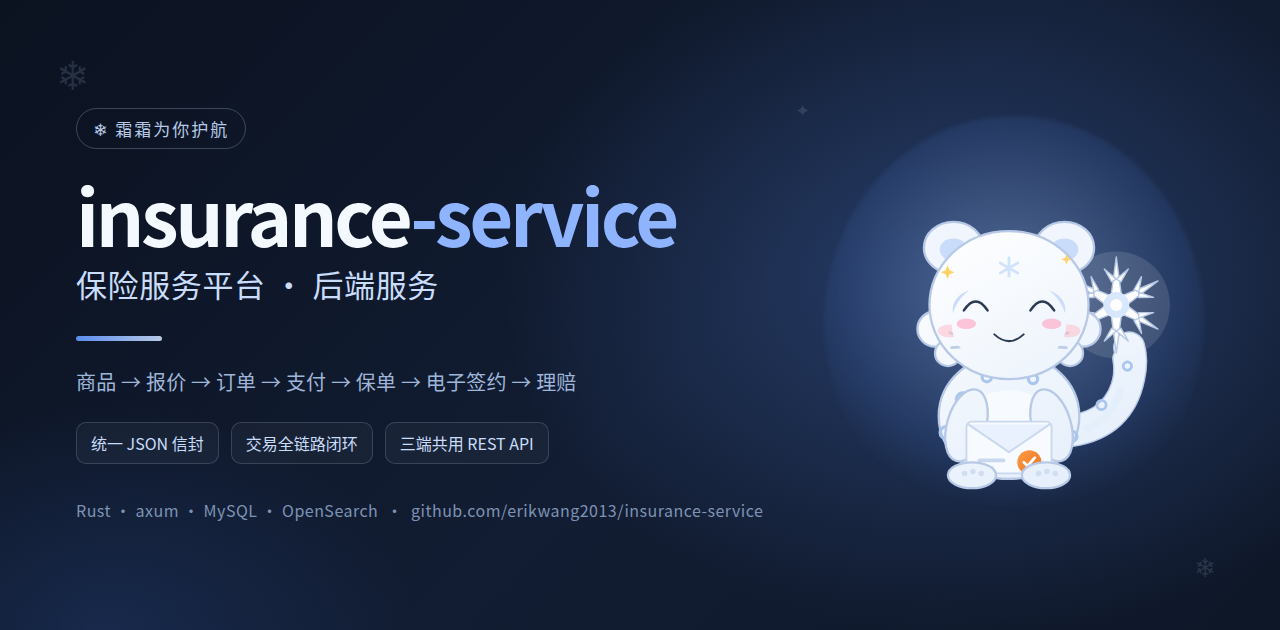
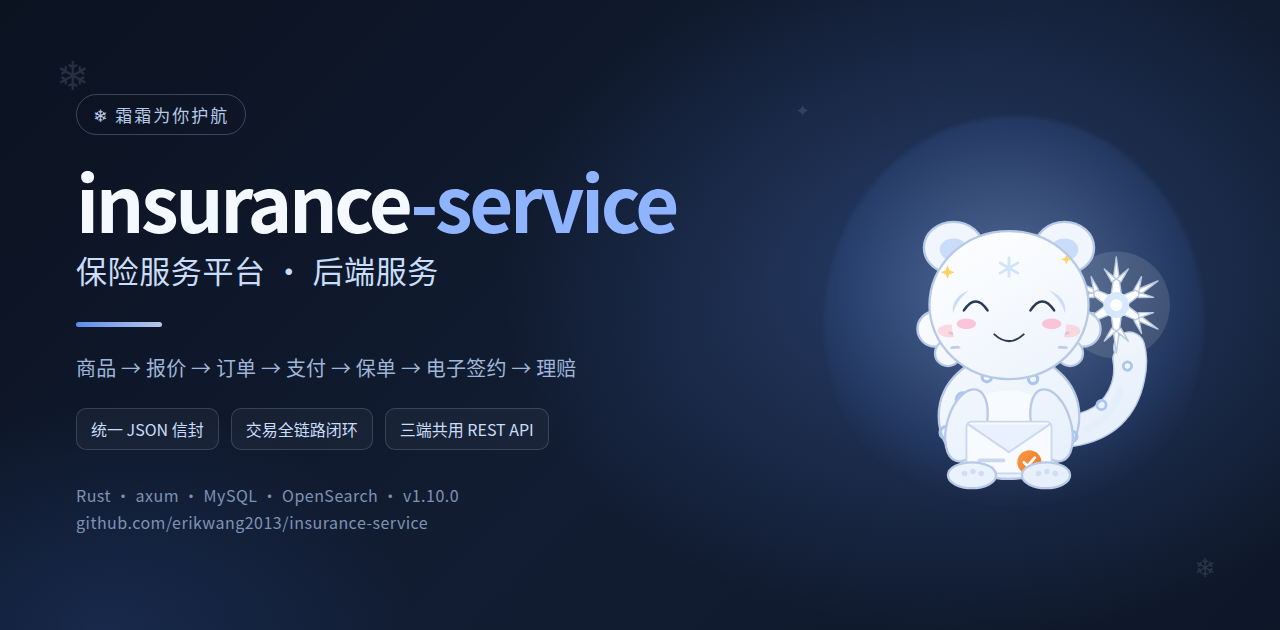
release: v1.10.0 宠物表情内嵌 + 文档/图示同步 + clippy 清理
- 12 种宠物表情 SVG 经 include_str! 内嵌，新增 GET /pet/{slug} 出口
- 吉祥物 MASCOT_SVG 改为 include_str! docs/mascot.svg，消除双份维护
- README / plan / tasks / design / backend-architecture 同步 v1.10.0
- features.svg 更新能力清单与测试规模；Social Preview 重制（v1.10.0）
- 修正“未配置 DB 自动 SKIP”的错误说明（实际会失败）
- clippy：冗余闭包 / clone / Ok(?) / 多余借用 / 空文档注释清理

diff --git a/src/routes.rs b/src/routes.rs
@@ -289,8 +289,8 @@ pub fn route_table() -> Vec<Route> {
     ]
 }
 
-/// 吉祥物（霜霜，雪豹幼崽）—— 内嵌 SVG，另存于 docs/mascot.svg，两处同源
-pub const MASCOT_SVG: &str = r##"<svg xmlns="http://www.w3.org/2000/svg" viewBox="0 0 400 400" width="120" height="120" role="img" aria-label="霜霜，insurance-service 吉祥物——雪豹幼崽，尾尖是一片雪花结晶，怀里抱着统一信封"> <title>霜霜 · insurance-service 吉祥物（雪豹幼崽）</title> <defs> <linearGradient id="fur" gradientUnits="userSpaceOnUse" x1="120" y1="96" x2="280" y2="384"> <stop offset="0" stop-color="#FFFFFF"/> <stop offset="1" stop-color="#E4EEFB"/> </linearGradient> <linearGradient id="seal" x1="0" y1="0" x2="1" y2="1"> <stop offset="0" stop-color="#FF9A44"/> <stop offset="1" stop-color="#E8721F"/> </linearGradient> <g id="sfArm" fill="#FFFFFF" stroke="#B7C9E6" stroke-width="1.5" stroke-linejoin="round"> <path d="M316 190 L309 186 L316 134 L323 186 Z"/> <path d="M316 158 L303 147 L311 161 Z"/> <path d="M316 158 L329 147 L321 161 Z"/> </g> </defs> <path d="M268 322 Q320 314 330 264 Q334 246 330 232" stroke="#B7C9E6" stroke-width="35" fill="none" stroke-linecap="round"/> <path d="M272 326 Q314 314 324 268 Q326 254 324 244" stroke="#B7C9E6" stroke-width="25" fill="none" stroke-linecap="round"/> <path d="M268 322 Q320 314 330 264 Q334 246 330 232" stroke="url(#fur)" stroke-width="32" fill="none" stroke-linecap="round"/> <path d="M272 326 Q314 314 324 268 Q326 254 324 244" stroke="url(#fur)" stroke-width="22" fill="none" stroke-linecap="round"/> <path d="M284 320 Q312 308 320 278" stroke="#E4EEFB" stroke-width="8" fill="none" stroke-linecap="round" opacity="0.85"/> <circle cx="316" cy="186" r="58" fill="#FFFFFF" opacity="0.12"/> <g> <use href="#sfArm"/> <use href="#sfArm" transform="rotate(60 316 186)"/> <use href="#sfArm" transform="rotate(120 316 186)"/> <g transform="rotate(180 316 186)"> <use href="#sfArm"/> <use href="#sfArm" transform="rotate(60 316 186)"/> <use href="#sfArm" transform="rotate(120 316 186)"/> </g> </g> <circle cx="316" cy="186" r="14" fill="#D8E8FC"/> <circle cx="316" cy="186" r="6.5" fill="#FFFFFF"/> <g fill="none" stroke="#A9C6EE" stroke-width="3"> <circle cx="300" cy="294" r="5"/> <circle cx="328" cy="252" r="4.5"/> </g> <ellipse cx="200" cy="306" rx="76" ry="68" fill="url(#fur)" stroke="#B7C9E6" stroke-width="2.5"/> <ellipse cx="200" cy="322" rx="52" ry="44" fill="#FFFFFF" opacity="0.55"/> <g fill="none" stroke="#A9C6EE" stroke-width="3.4"> <circle cx="150" cy="288" r="7"/> <circle cx="250" cy="294" r="6"/> <circle cx="132" cy="324" r="6.5"/> <circle cx="268" cy="328" r="5.5"/> <circle cx="176" cy="264" r="5"/> <circle cx="226" cy="266" r="5"/> </g> <ellipse cx="154" cy="316" rx="21" ry="40" fill="url(#fur)" stroke="#B7C9E6" stroke-width="2.5" transform="rotate(16 154 316)"/> <ellipse cx="246" cy="316" rx="21" ry="40" fill="url(#fur)" stroke="#B7C9E6" stroke-width="2.5" transform="rotate(-16 246 316)"/> <g> <rect x="154" y="312" width="92" height="56" rx="6" fill="#F7FAFF" stroke="#C9D8EE" stroke-width="2"/> <path d="M156 315 L200 345 L244 315" fill="#E9F1FE" stroke="#C9D8EE" stroke-width="2" stroke-linejoin="round"/> <rect x="166" y="352" width="30" height="4" rx="2" fill="#C9D8EE"/> <rect x="166" y="360" width="18" height="4" rx="2" fill="#DDE7F7"/> <circle cx="222" cy="356" r="13" fill="url(#seal)"/> <path d="M216 356 L220 360 L228 351" stroke="#FFFFFF" stroke-width="3" fill="none" stroke-linecap="round" stroke-linejoin="round"/> </g> <ellipse cx="160" cy="370" rx="26" ry="14" fill="url(#fur)" stroke="#B7C9E6" stroke-width="2.5"/> <ellipse cx="240" cy="370" rx="26" ry="14" fill="url(#fur)" stroke="#B7C9E6" stroke-width="2.5"/> <g fill="#C9D8EE" opacity="0.75"> <circle cx="152" cy="368" r="3"/> <circle cx="161" cy="366" r="3"/> <circle cx="170" cy="368" r="3"/> <circle cx="232" cy="368" r="3"/> <circle cx="241" cy="366" r="3"/> <circle cx="250" cy="368" r="3"/> </g> <ellipse cx="140" cy="124" rx="32" ry="28" fill="#F1F6FE" stroke="#B7C9E6" stroke-width="2.5"/> <ellipse cx="260" cy="124" rx="32" ry="28" fill="#F1F6FE" stroke="#B7C9E6" stroke-width="2.5"/> <ellipse cx="140" cy="126" rx="15" ry="12" fill="#C9DDFA"/> <ellipse cx="260" cy="126" rx="15" ry="12" fill="#C9DDFA"/> <circle cx="120" cy="212" r="19" fill="url(#fur)" stroke="#B7C9E6" stroke-width="2.5"/> <circle cx="280" cy="212" r="19" fill="url(#fur)" stroke="#B7C9E6" stroke-width="2.5"/> <circle cx="134" cy="238" r="14" fill="url(#fur)" stroke="#B7C9E6" stroke-width="2.5"/> <circle cx="266" cy="238" r="14" fill="url(#fur)" stroke="#B7C9E6" stroke-width="2.5"/> <ellipse cx="200" cy="186" rx="86" ry="80" fill="url(#fur)" stroke="#B7C9E6" stroke-width="2.5"/> <g stroke="#CFE3FB" stroke-width="3" stroke-linecap="round" fill="none"> <path d="M200 135 V157 M190.5 140.5 L209.5 151.5 M190.5 151.5 L209.5 140.5"/> </g> <ellipse cx="164" cy="190" rx="25" ry="21" fill="#C9DDFA" transform="rotate(-8 164 190)"/> <ellipse cx="236" cy="190" rx="25" ry="21" fill="#C9DDFA" transform="rotate(8 236 190)"/> <circle cx="164" cy="188" r="13.5" fill="#FFFFFF"/> <circle cx="236" cy="188" r="13.5" fill="#FFFFFF"/> <circle cx="167" cy="190" r="9.5" fill="#5B8DEF"/> <circle cx="233" cy="190" r="9.5" fill="#5B8DEF"/> <circle cx="168" cy="191" r="5.5" fill="#16233A"/> <circle cx="232" cy="191" r="5.5" fill="#16233A"/> <circle cx="163" cy="185" r="4" fill="#FFFFFF"/> <circle cx="172" cy="196" r="1.8" fill="#FFFFFF"/> <circle cx="237" cy="185" r="4" fill="#FFFFFF"/> <circle cx="228" cy="196" r="1.8" fill="#FFFFFF"/> <path d="M192 212 Q200 205 208 212 Q205 223 200 223 Q195 223 192 212 Z" fill="#2B3A55"/> <path d="M186 228 Q194 238 200 229 Q206 238 214 228" stroke="#2B3A55" stroke-width="3.6" fill="none" stroke-linecap="round" stroke-linejoin="round"/> <g stroke="#B7C9E6" stroke-width="3" stroke-linecap="round" opacity="0.9"> <path d="M166 222 L136 216"/> <path d="M166 230 L138 232"/> <path d="M234 222 L264 216"/> <path d="M234 230 L262 232"/> </g> <ellipse cx="136" cy="214" rx="13" ry="7" fill="#FFB8C6" opacity="0.5"/> <ellipse cx="264" cy="214" rx="13" ry="7" fill="#FFB8C6" opacity="0.5"/> </svg>"##;
+/// 吉祥物（霜霜，雪豹幼崽）—— 编译期内嵌 `docs/mascot.svg`（单一真源）
+pub const MASCOT_SVG: &str = include_str!("../docs/mascot.svg");
 
 /// 吉祥物 ASCII 版（启动日志 / 控制台）
 pub const MASCOT_BANNER: &str = r#"  ._________________________________.
@@ -458,7 +458,7 @@ mod tests {
     fn mascot_svg_is_self_contained() {
         let svg = MASCOT_SVG;
         assert!(svg.starts_with("<svg "), "应以 <svg 开头");
-        assert!(svg.ends_with("</svg>"), "应以 </svg> 收尾");
+        assert!(svg.trim_end().ends_with("</svg>"), "应以 </svg> 收尾");
         assert!(svg.contains("aria-label="), "应声明 aria-label 无障碍标签");
         assert!(svg.contains("霜霜"), "应含吉祥物名");
 

diff --git a/src/middleware/auth.rs b/src/middleware/auth.rs
@@ -30,7 +30,7 @@ impl Role {
         }
     }
 
-    pub fn from_str(s: &str) -> Option<Self> {
+    pub fn parse(s: &str) -> Option<Self> {
         match s {
             "USER" => Some(Role::User),
             "AGENT" => Some(Role::Agent),
@@ -123,7 +123,7 @@ impl JwtService {
         let mut validation = jsonwebtoken::Validation::new(jsonwebtoken::Algorithm::HS256);
         // jsonwebtoken 默认 exp/nbf 有 60s 宽容窗口；这里按签发语义精确执行过期
         validation.leeway = 0;
-        validation.set_issuer(&[self.cfg.issuer.clone()]);
+        validation.set_issuer(std::slice::from_ref(&self.cfg.issuer));
         let data = jsonwebtoken::decode::<Claims>(
             token,
             &jsonwebtoken::DecodingKey::from_secret(self.cfg.secret.as_bytes()),
@@ -165,7 +165,7 @@ impl Filter for AuthFilter {
             .jwt
             .verify_token(token)
             .map_err(|_| crate::error::AppError::Unauthorized.to_string())?;
-        let role = Role::from_str(&claims.role).unwrap_or(Role::User);
+        let role = Role::parse(&claims.role).unwrap_or(Role::User);
         ctx.current_user = Some(AuthUser {
             id: claims.sub,
             role,

diff --git a/src/services/auth_service.rs b/src/services/auth_service.rs
@@ -233,7 +233,7 @@ impl AuthService {
             .await;
 
         // 4. 签发令牌（携带当前 token_version）
-        let role = Role::from_str(&user.role).unwrap_or(Role::User);
+        let role = Role::parse(&user.role).unwrap_or(Role::User);
         self.issue_tokens(user.id, &user.username, role, user.token_version)
     }
 
@@ -253,7 +253,7 @@ impl AuthService {
         let user = user.ok_or_else(|| {
             AppError::business("该微信未绑定账号，请先登录后在个人中心绑定")
         })?;
-        let role = Role::from_str(&user.role).unwrap_or(Role::User);
+        let role = Role::parse(&user.role).unwrap_or(Role::User);
         self.issue_tokens(user.id, &user.username, role, user.token_version)
     }
 
@@ -336,7 +336,7 @@ impl AuthService {
         if user.status != User::STATUS_ACTIVE {
             return Err(AppError::business("账号已禁用或冻结，无法刷新令牌"));
         }
-        let role = Role::from_str(&user.role).unwrap_or(Role::User);
+        let role = Role::parse(&user.role).unwrap_or(Role::User);
         self.issue_tokens(user.id, &user.username, role, user.token_version)
     }
 

diff --git a/src/services/quote_service.rs b/src/services/quote_service.rs
@@ -190,7 +190,7 @@ impl QuoteService {
                             value_opt_vec(b.id_card_enc.clone()),
                             value_opt_str(b.relationship.clone()),
                             Value::from(b.beneficiary_type.clone()),
-                            value_opt_dec(b.share_percent.clone()),
+                            value_opt_dec(b.share_percent),
                             Value::from(b.sort_order),
                         ];
                         tx.exec_drop(
@@ -250,13 +250,10 @@ fn rate_table_missing(e: &mysql_async::Error) -> bool {
     msg.contains("quote_rates") && msg.contains("doesn't exist")
 }
 
-// ---------- helpers: Value slice → mysql_async Row / Quote ----------
+// ---------- helpers: 行读取 ----------
 
 use mysql_async::Row;
 use chrono::NaiveDateTime;
-
-/// (已移除) Vec<Value> → Row 的包装被删除：mysql_async::Row 无公开构造器，
-/// 回读直接用 exec_first 得到 Row，见 QuoteService::create。
 
 /// 读行 → DateTime<Utc>
 fn dt_row(row: &Row, col: &str) -> DateTime<Utc> {

diff --git a/src/services/policy_service.rs b/src/services/policy_service.rs
@@ -185,7 +185,7 @@ impl PolicyService {
             )
             .await
             .map_err(db_error)?;
-        Ok(rows.iter().map(|r| row_to_policy(r)).collect::<Result<Vec<_>>>()?)
+        rows.iter().map(row_to_policy).collect::<Result<Vec<_>>>()
     }
 
     /// 续保：校验原保单归属本人、is_renewable=1 且状态可续（ACTIVE 在保 / EXPIRED 已满期）
@@ -462,7 +462,7 @@ fn add_months(d: NaiveDate, months: i32) -> NaiveDate {
 
 fn bens_json(rows: &[Row]) -> serde_json::Value {
     let list = rows.iter().map(row_to_beneficiary).collect::<Result<Vec<_>>>();
-    serde_json::to_value(list.unwrap_or_default()).unwrap_or_else(|_| serde_json::Value::Null)
+    serde_json::to_value(list.unwrap_or_default()).unwrap_or(serde_json::Value::Null)
 }
 
 fn row_to_beneficiary(row: &Row) -> Result<Beneficiary> {

diff --git a/src/controllers/admin.rs b/src/controllers/admin.rs
@@ -282,7 +282,7 @@ async fn query_audit_logs(
         sql.push_str(&conds.join(" AND "));
     }
     let total: i64 = conn
-        .exec_first(&format!("SELECT COUNT(*) {sql}"), args.clone())
+        .exec_first(format!("SELECT COUNT(*) {sql}"), args.clone())
         .await
         .map_err(db_error)?
         .unwrap_or(0);
@@ -292,7 +292,7 @@ async fn query_audit_logs(
     list_args.push(Value::from(offset as i64));
     let rows: Vec<Row> = conn
         .exec(
-            &format!(
+            format!(
                 "SELECT id, user_id, action, entity_type, entity_id, \
                  CAST(before_json AS CHAR) AS before_json, CAST(after_json AS CHAR) AS after_json, \
                  ip, user_agent, trace_id, created_at {sql} \

diff --git a/src/services/order_service.rs b/src/services/order_service.rs
@@ -90,9 +90,7 @@ impl OrderService {
                     };
 
                     // 3) 计算金额：total_amount = premium, payable_amount = premium - discount
-                    let discount = req
-                        .discount_amount
-                        .unwrap_or_else(|| Decimal::ZERO);
+                    let discount = req.discount_amount.unwrap_or(Decimal::ZERO);
                     let total_amount = premium;
                     let payable_amount = total_amount.saturating_sub(discount);
                     let remark_opt: Option<String> = req.remark.clone();

diff --git a/src/services/contract_service.rs b/src/services/contract_service.rs
@@ -161,7 +161,7 @@ impl ContractService {
             )
             .await
             .map_err(db_error)?;
-        Ok(rows.iter().map(|r| row_to_contract(r)).collect::<Result<Vec<_>>>()?)
+        rows.iter().map(row_to_contract).collect::<Result<Vec<_>>>()
     }
 }
 

diff --git a/src/services/payment_service.rs b/src/services/payment_service.rs
@@ -195,7 +195,7 @@ impl PaymentService {
             )
             .await
             .map_err(db_error)?;
-        Ok(rows.iter().map(|r| row_to_payment(r)).collect::<Result<Vec<_>>>()?)
+        rows.iter().map(row_to_payment).collect::<Result<Vec<_>>>()
     }
 }
 

diff --git a/src/middleware/trace.rs b/src/middleware/trace.rs
@@ -18,7 +18,7 @@ pub fn current_trace_id() -> String {
     CURRENT_TRACE
         .get()
         .cloned()
-        .unwrap_or_else(|| generate_trace_id())
+        .unwrap_or_else(generate_trace_id)
 }
 
 /// 生成一个新的 trace_id（UUID v4）

diff --git a/docs/plan.md b/docs/plan.md
@@ -1,7 +1,7 @@
 # 保险服务平台 — 规划文档（本地备份）
 
 > 本文档为本地规划快照：与 [`backend-architecture.md`](./backend-architecture.md) §13 Roadmap、[db-schema.md](./db-schema.md)、[README.md](../README.md) 保持一致。
-> 更新时请同步维护三处。版本: 2026-09-26（v1.9.0）。
+> 更新时请同步维护三处。版本: 2026-10-19（v1.10.0）。
 
 ---
 
@@ -13,10 +13,10 @@ Rust（`bee_rust` + `axum`）实现的保险服务平台后端，覆盖
 
 ## 当前状态
 
-- **阶段 0 完成 · 阶段 1 基本完成（v1.8.0）**：用户认证（含微信绑定 / 令牌吊销）、保险商品、全文搜索（LIKE 降级）、
+- **阶段 0 完成 · 阶段 1 基本完成（v1.10.0）**：用户认证（含微信绑定 / 令牌吊销）、保险商品、全文搜索（LIKE 降级）、
   报价（`quote_rates` 费率表驱动）、理赔（报案 / 审核 / 资料）、运营后台与审计查询均已落地；
   **报价 → 订单 → 支付 → 保单 → 签约**交易闭环 API 已打通（支付 / 电子签为 Mock 渠道）。
-  `src/routes.rs` 已挂载 39 个业务端点 + `/`、`/healthz`、`/favicon.svg` 根路径。
+  `src/routes.rs` 已挂载 39 个业务端点 + `/`、`/healthz`、`/favicon.svg`、`/pet/{slug}` 根路径。
 - **待办**：OpenSearch 真实接入、保单 PDF、微信支付 / e签宝真实渠道、Flutter / 小程序 / 鸿蒙端联调。
 - 详细路线见下，逐项勾选进度同步自 `docs/tasks.md`（逐项实现状态以 `backend-architecture.md` §13 为准）。
 
@@ -54,6 +54,6 @@ Rust（`bee_rust` + `axum`）实现的保险服务平台后端，覆盖
 
 | 里程碑 | 判定标准 |
 |--------|----------|
-| 阶段 0 完成 ✅ | `cargo test` 全绿（v1.8.0：137 项 = 单元 22 + 集成 115，MySQL 缺失自动 SKIP）；`/healthz` 与 auth/product/search 路由可运行 |
+| 阶段 0 完成 ✅ | `cargo test --lib` 全绿（v1.10.0：单元 26 项）；集成 115 项需 MySQL（未配置则失败）；`/healthz` 与 auth/product/search 路由可运行 |
 | 阶段 1 完成 🔄 | 订单 → 支付（Mock 回调验签）→ 保单闭环走通 ✅；库表与 models 一致 ✅；待补保单 PDF |
 | 阶段 2 完成 | Flutter 端完整业务链路联调通过（未开始） |
